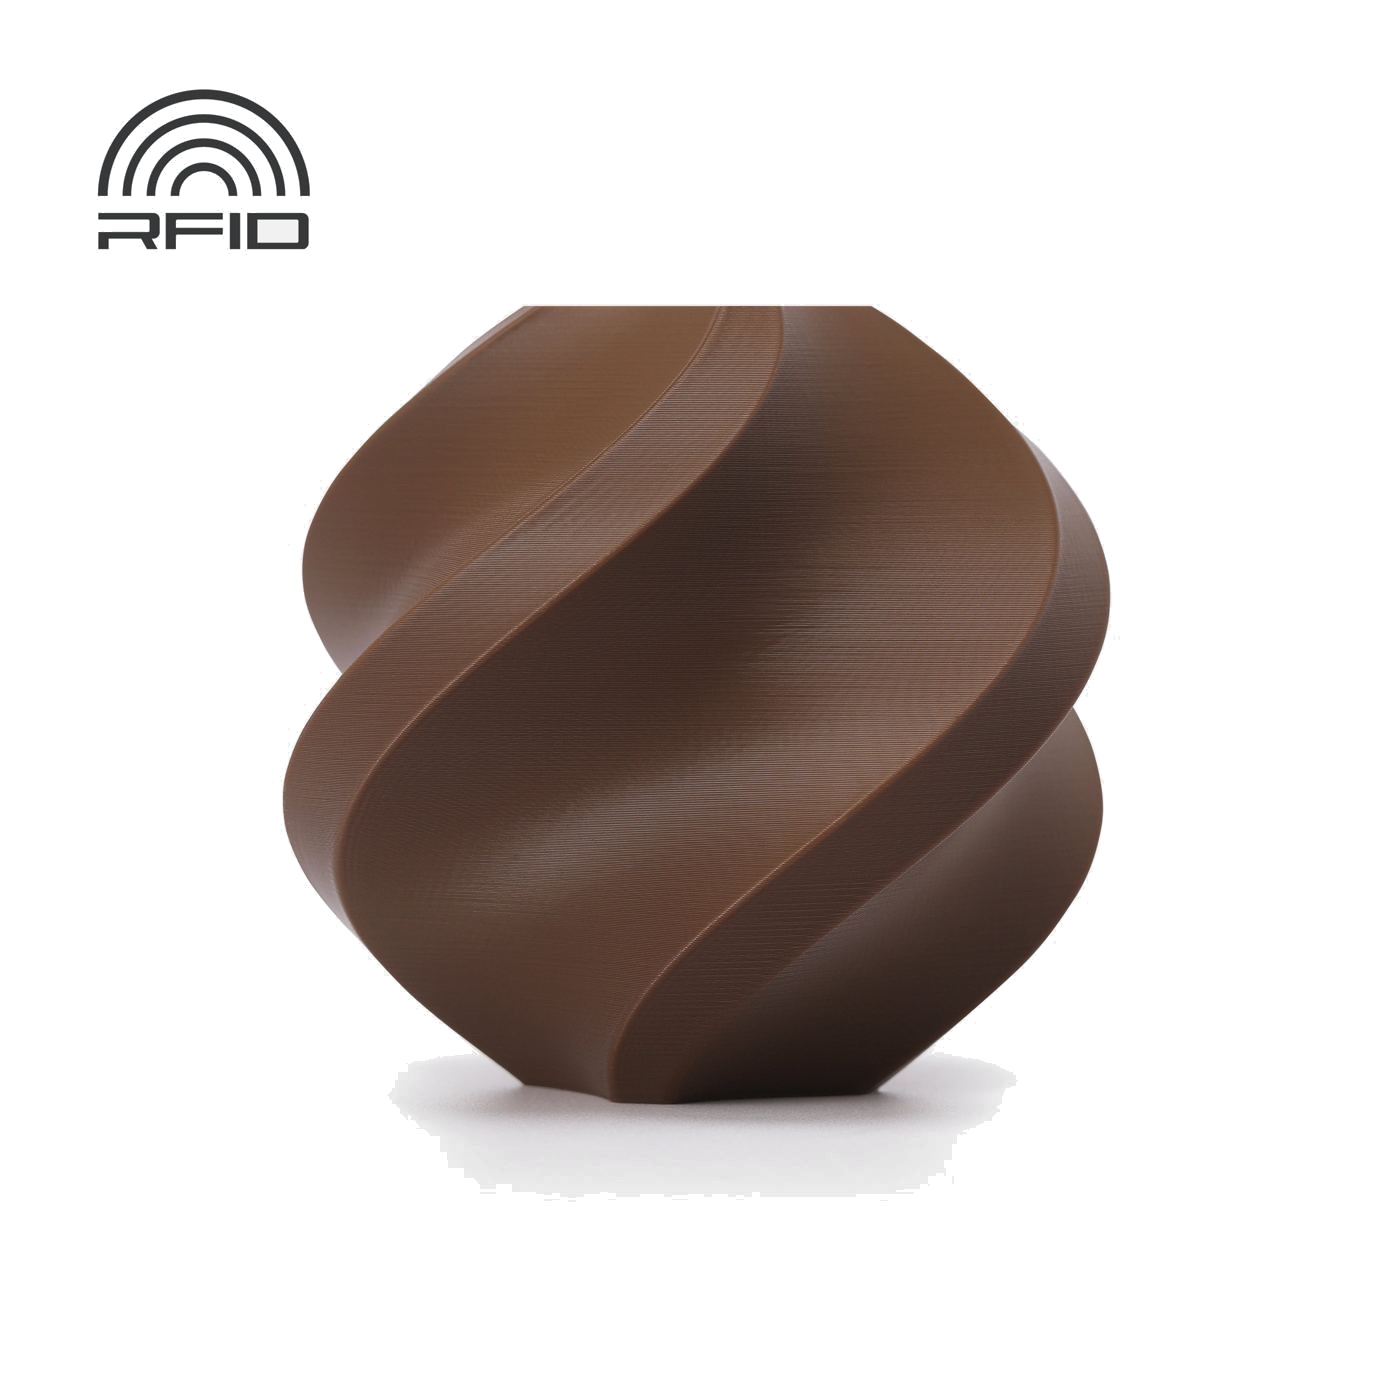
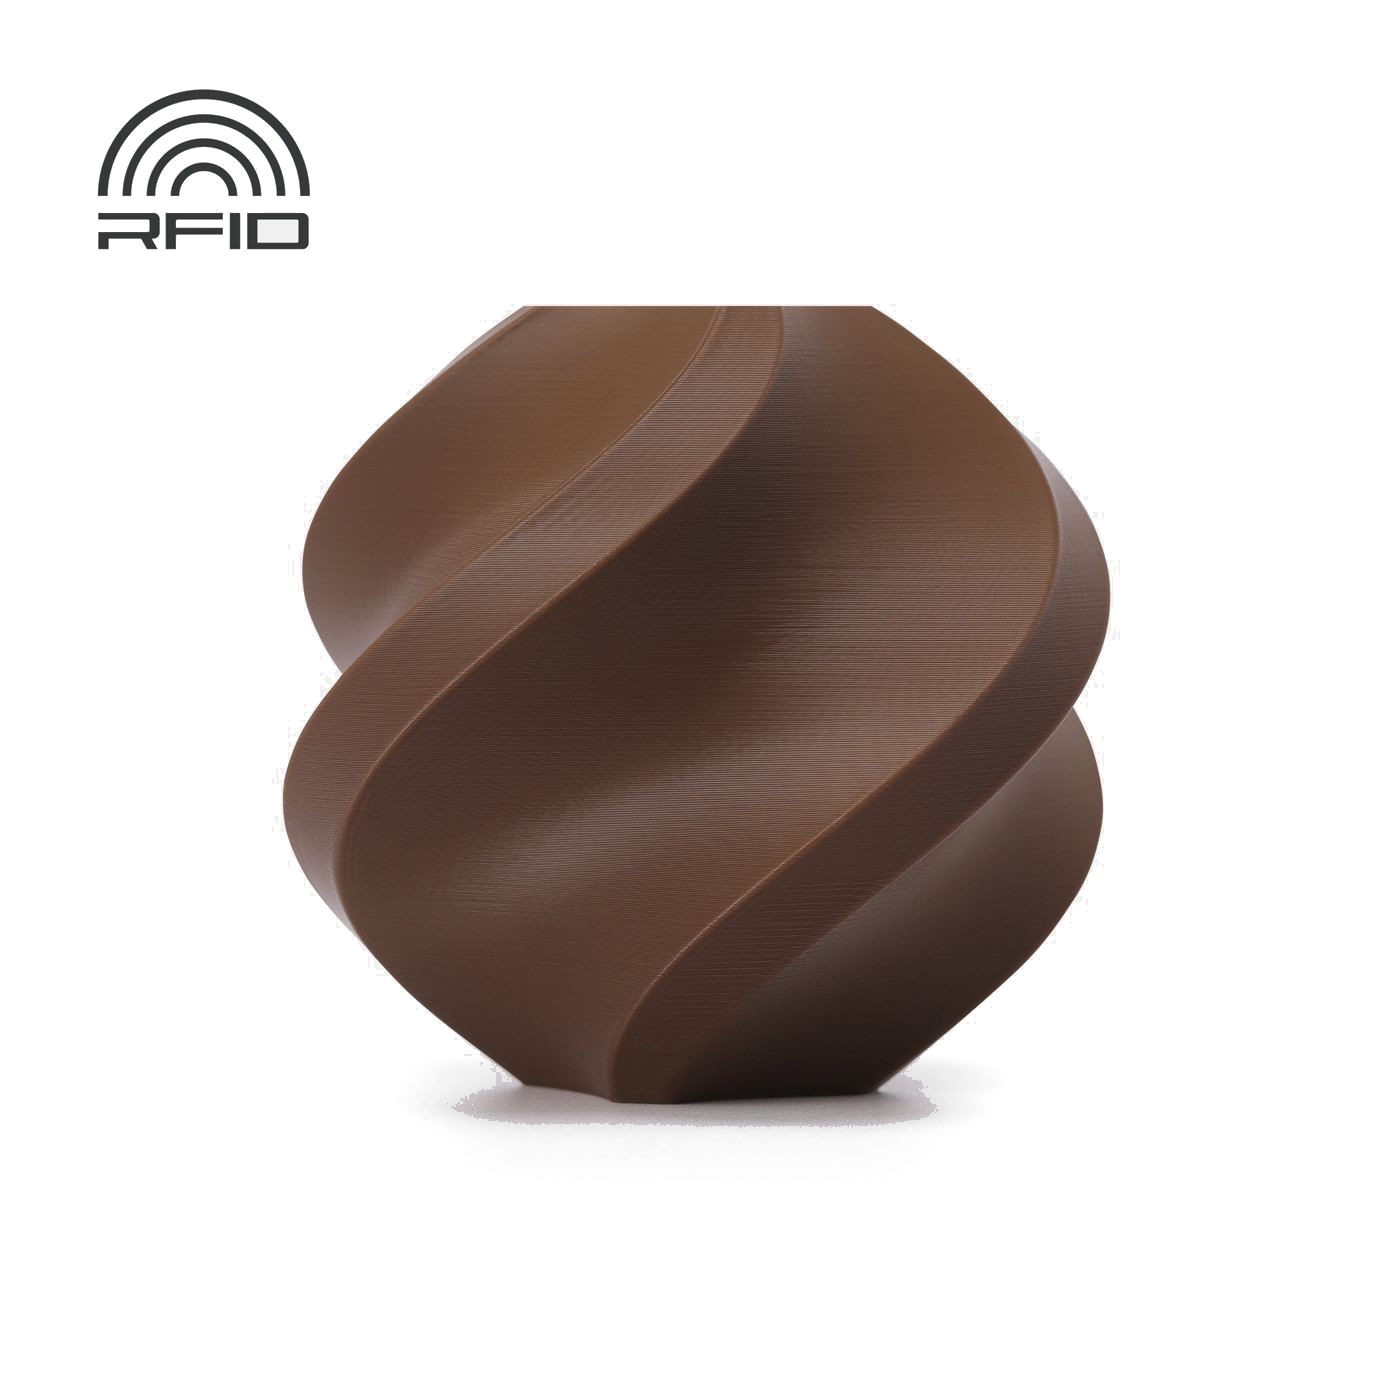
fix(bambu): convert images to transparent PNGs with cache buster to completely eliminate square background

Changed region(s): [[0.2764, 0.7371, 0.7371, 0.86]]

diff --git a/js/dados.js b/js/dados.js
@@ -76,19 +76,19 @@ window.SITE_DATA = {
 
   // 1. BAMBU LAB (Páginas 43 a 49 do PDF — Carretel RFID R$ 99,90 | Refil RFID R$ 79,90)
   coresBambuLab: [
-    { nome: "Laranja 1kg", cod: "137", preco: "R$ 99,90", valor: 99.90, tipo: "1KG Carretel RFID", hex: "#F04E23", filtroCss: "none", usaFotoCatalogoDireta: true, imgCatalogo: "assets/produtos/filamentos/cod_137.jpg" },
-    { nome: "Preto 1kg", cod: "110", preco: "R$ 99,90", valor: 99.90, tipo: "1KG Carretel RFID", hex: "#18181B", filtroCss: "grayscale(1) brightness(0.75) contrast(1.15)", usaFotoCatalogoDireta: true, imgCatalogo: "assets/produtos/filamentos/cod_110.jpg" },
-    { nome: "Branco 1kg", cod: "135", preco: "R$ 99,90", valor: 99.90, tipo: "1KG Carretel RFID", hex: "#F4F4F5", filtroCss: "grayscale(1) brightness(1.18)", usaFotoCatalogoDireta: true, imgCatalogo: "assets/produtos/filamentos/cod_135.jpg" },
-    { nome: "Cinza 1kg", cod: "145", preco: "R$ 99,90", valor: 99.90, tipo: "1KG Carretel RFID", hex: "#71717A", filtroCss: "grayscale(1) brightness(0.95)", usaFotoCatalogoDireta: true, imgCatalogo: "assets/produtos/filamentos/cod_145.jpg" },
-    { nome: "Azul Ciano 1kg", cod: "136", preco: "R$ 99,90", valor: 99.90, tipo: "1KG Carretel RFID", hex: "#0284C7", filtroCss: "hue-rotate(175deg) saturate(1.1)", usaFotoCatalogoDireta: true, imgCatalogo: "assets/produtos/filamentos/cod_136.jpg" },
-    { nome: "Verde 1kg", cod: "115", preco: "R$ 99,90", valor: 99.90, tipo: "1KG Carretel RFID", hex: "#16A34A", filtroCss: "hue-rotate(98deg) saturate(1.08)", usaFotoCatalogoDireta: true, imgCatalogo: "assets/produtos/filamentos/cod_115.jpg" },
-    { nome: "Amarelo Sol 1kg", cod: "113", preco: "R$ 99,90", valor: 99.90, tipo: "1KG Carretel RFID", hex: "#FACC15", filtroCss: "hue-rotate(32deg) saturate(1.15) brightness(1.08)", usaFotoCatalogoDireta: true, imgCatalogo: "assets/produtos/filamentos/cod_113.jpg" },
-    { nome: "Amarelo Girassol 1kg", cod: "116", preco: "R$ 99,90", valor: 99.90, tipo: "1KG Carretel RFID", hex: "#F59E0B", filtroCss: "hue-rotate(22deg) saturate(1.12)", usaFotoCatalogoDireta: true, imgCatalogo: "assets/produtos/filamentos/cod_116.jpg" },
-    { nome: "Matte Bege 1kg (Fosco)", cod: "112", preco: "R$ 99,90", valor: 99.90, tipo: "1KG Carretel RFID", hex: "#E5D3B3", filtroCss: "hue-rotate(25deg) saturate(0.45) brightness(1.12)", usaFotoCatalogoDireta: true, imgCatalogo: "assets/produtos/filamentos/cod_112.jpg" },
-    { nome: "Marrom Coco 1kg", cod: "166", preco: "R$ 99,90", valor: 99.90, tipo: "1KG Carretel RFID", hex: "#5C4033", filtroCss: "hue-rotate(-8deg) saturate(0.55) brightness(0.82)", usaFotoCatalogoDireta: true, imgCatalogo: "assets/produtos/filamentos/cod_166.jpg" },
-    { nome: "Refil PLA Branco 1kg", cod: "146", preco: "R$ 79,90", valor: 79.90, tipo: "1KG Refil RFID", hex: "#F4F4F5", filtroCss: "grayscale(1) brightness(1.18)", usaFotoCatalogoDireta: true, imgCatalogo: "assets/produtos/filamentos/cod_146.jpg" },
-    { nome: "Refil PLA Cinza 1kg", cod: "147", preco: "R$ 79,90", valor: 79.90, tipo: "1KG Refil RFID", hex: "#71717A", filtroCss: "grayscale(1) brightness(0.95)", usaFotoCatalogoDireta: true, imgCatalogo: "assets/produtos/filamentos/cod_147.jpg" },
-    { nome: "Refil PLA Verde 1kg", cod: "151", preco: "R$ 79,90", valor: 79.90, tipo: "1KG Refil RFID", hex: "#16A34A", filtroCss: "hue-rotate(98deg) saturate(1.08)", usaFotoCatalogoDireta: true, imgCatalogo: "assets/produtos/filamentos/cod_151.jpg" }
+    { nome: "Laranja 1kg", cod: "137", preco: "R$ 99,90", valor: 99.90, tipo: "1KG Carretel RFID", hex: "#F04E23", filtroCss: "none", usaFotoCatalogoDireta: true, imgCatalogo: "assets/produtos/filamentos/cod_137.png?v=20261108_05" },
+    { nome: "Preto 1kg", cod: "110", preco: "R$ 99,90", valor: 99.90, tipo: "1KG Carretel RFID", hex: "#18181B", filtroCss: "grayscale(1) brightness(0.75) contrast(1.15)", usaFotoCatalogoDireta: true, imgCatalogo: "assets/produtos/filamentos/cod_110.png?v=20261108_05" },
+    { nome: "Branco 1kg", cod: "135", preco: "R$ 99,90", valor: 99.90, tipo: "1KG Carretel RFID", hex: "#F4F4F5", filtroCss: "grayscale(1) brightness(1.18)", usaFotoCatalogoDireta: true, imgCatalogo: "assets/produtos/filamentos/cod_135.png?v=20261108_05" },
+    { nome: "Cinza 1kg", cod: "145", preco: "R$ 99,90", valor: 99.90, tipo: "1KG Carretel RFID", hex: "#71717A", filtroCss: "grayscale(1) brightness(0.95)", usaFotoCatalogoDireta: true, imgCatalogo: "assets/produtos/filamentos/cod_145.png?v=20261108_05" },
+    { nome: "Azul Ciano 1kg", cod: "136", preco: "R$ 99,90", valor: 99.90, tipo: "1KG Carretel RFID", hex: "#0284C7", filtroCss: "hue-rotate(175deg) saturate(1.1)", usaFotoCatalogoDireta: true, imgCatalogo: "assets/produtos/filamentos/cod_136.png?v=20261108_05" },
+    { nome: "Verde 1kg", cod: "115", preco: "R$ 99,90", valor: 99.90, tipo: "1KG Carretel RFID", hex: "#16A34A", filtroCss: "hue-rotate(98deg) saturate(1.08)", usaFotoCatalogoDireta: true, imgCatalogo: "assets/produtos/filamentos/cod_115.png?v=20261108_05" },
+    { nome: "Amarelo Sol 1kg", cod: "113", preco: "R$ 99,90", valor: 99.90, tipo: "1KG Carretel RFID", hex: "#FACC15", filtroCss: "hue-rotate(32deg) saturate(1.15) brightness(1.08)", usaFotoCatalogoDireta: true, imgCatalogo: "assets/produtos/filamentos/cod_113.png?v=20261108_05" },
+    { nome: "Amarelo Girassol 1kg", cod: "116", preco: "R$ 99,90", valor: 99.90, tipo: "1KG Carretel RFID", hex: "#F59E0B", filtroCss: "hue-rotate(22deg) saturate(1.12)", usaFotoCatalogoDireta: true, imgCatalogo: "assets/produtos/filamentos/cod_116.png?v=20261108_05" },
+    { nome: "Matte Bege 1kg (Fosco)", cod: "112", preco: "R$ 99,90", valor: 99.90, tipo: "1KG Carretel RFID", hex: "#E5D3B3", filtroCss: "hue-rotate(25deg) saturate(0.45) brightness(1.12)", usaFotoCatalogoDireta: true, imgCatalogo: "assets/produtos/filamentos/cod_112.png?v=20261108_05" },
+    { nome: "Marrom Coco 1kg", cod: "166", preco: "R$ 99,90", valor: 99.90, tipo: "1KG Carretel RFID", hex: "#5C4033", filtroCss: "hue-rotate(-8deg) saturate(0.55) brightness(0.82)", usaFotoCatalogoDireta: true, imgCatalogo: "assets/produtos/filamentos/cod_166.png?v=20261108_05" },
+    { nome: "Refil PLA Branco 1kg", cod: "146", preco: "R$ 79,90", valor: 79.90, tipo: "1KG Refil RFID", hex: "#F4F4F5", filtroCss: "grayscale(1) brightness(1.18)", usaFotoCatalogoDireta: true, imgCatalogo: "assets/produtos/filamentos/cod_146.png?v=20261108_05" },
+    { nome: "Refil PLA Cinza 1kg", cod: "147", preco: "R$ 79,90", valor: 79.90, tipo: "1KG Refil RFID", hex: "#71717A", filtroCss: "grayscale(1) brightness(0.95)", usaFotoCatalogoDireta: true, imgCatalogo: "assets/produtos/filamentos/cod_147.png?v=20261108_05" },
+    { nome: "Refil PLA Verde 1kg", cod: "151", preco: "R$ 79,90", valor: 79.90, tipo: "1KG Refil RFID", hex: "#16A34A", filtroCss: "hue-rotate(98deg) saturate(1.08)", usaFotoCatalogoDireta: true, imgCatalogo: "assets/produtos/filamentos/cod_151.png?v=20261108_05" }
   ],
 
   // 2. PLA MASTERPRINT / MAXPRINT (Páginas 2 a 21 do PDF — 36 Cores Oficiais)
@@ -216,7 +216,7 @@ window.SITE_DATA = {
       subtitulo: "Chip RFID para leitura automática no AMS • Bico 190–230°C • 1.75mm",
       precoVista: "R$ 99,90",
       precoParcelado: "Refil RFID: R$ 79,90 • Carretel RFID: R$ 99,90",
-      imagem: "assets/produtos/filamentos/cod_137.jpg",
+      imagem: "assets/produtos/filamentos/cod_137.png?v=20261108_05",
       tipoFilamento: true,
       kgPorUnidade: 1,
       select1Label: "Apresentação",

diff --git a/index.html b/index.html
@@ -36,7 +36,7 @@
   <link rel="preconnect" href="https://fonts.googleapis.com" />
   <link rel="preconnect" href="https://fonts.gstatic.com" crossorigin />
   <link href="https://fonts.googleapis.com/css2?family=Inter:wght@400;500;600;700;800&display=swap" rel="stylesheet" />
-  <link rel="stylesheet" href="css/styles.css?v=20261108_04" />
+  <link rel="stylesheet" href="css/styles.css?v=20261108_05" />
 
   <!-- Google Identity Services (Sign in with Google OAuth) -->
   <script src="https://accounts.google.com/gsi/client" async defer></script>
@@ -2523,10 +2523,10 @@
   <script src="https://cdn.jsdelivr.net/npm/@supabase/supabase-js@2"></script>
   <script src="https://cdn.jsdelivr.net/npm/qrcode-generator@1.4.4/qrcode.min.js"></script>
   <script src="https://cdn.jsdelivr.net/npm/jsqr@1.4.0/dist/jsQR.min.js"></script>
-  <script src="js/supabase-client.js?v=20261107_10"></script>
-  <script src="js/dados.js?v=20261107_10"></script>
-  <script src="js/database.js?v=20261107_10"></script>
-  <script src="js/app.js?v=20261108_03"></script>
+  <script src="js/supabase-client.js?v=20261108_05"></script>
+  <script src="js/dados.js?v=20261108_05"></script>
+  <script src="js/database.js?v=20261108_05"></script>
+  <script src="js/app.js?v=20261108_05"></script>
 </body>
 
 </html>
